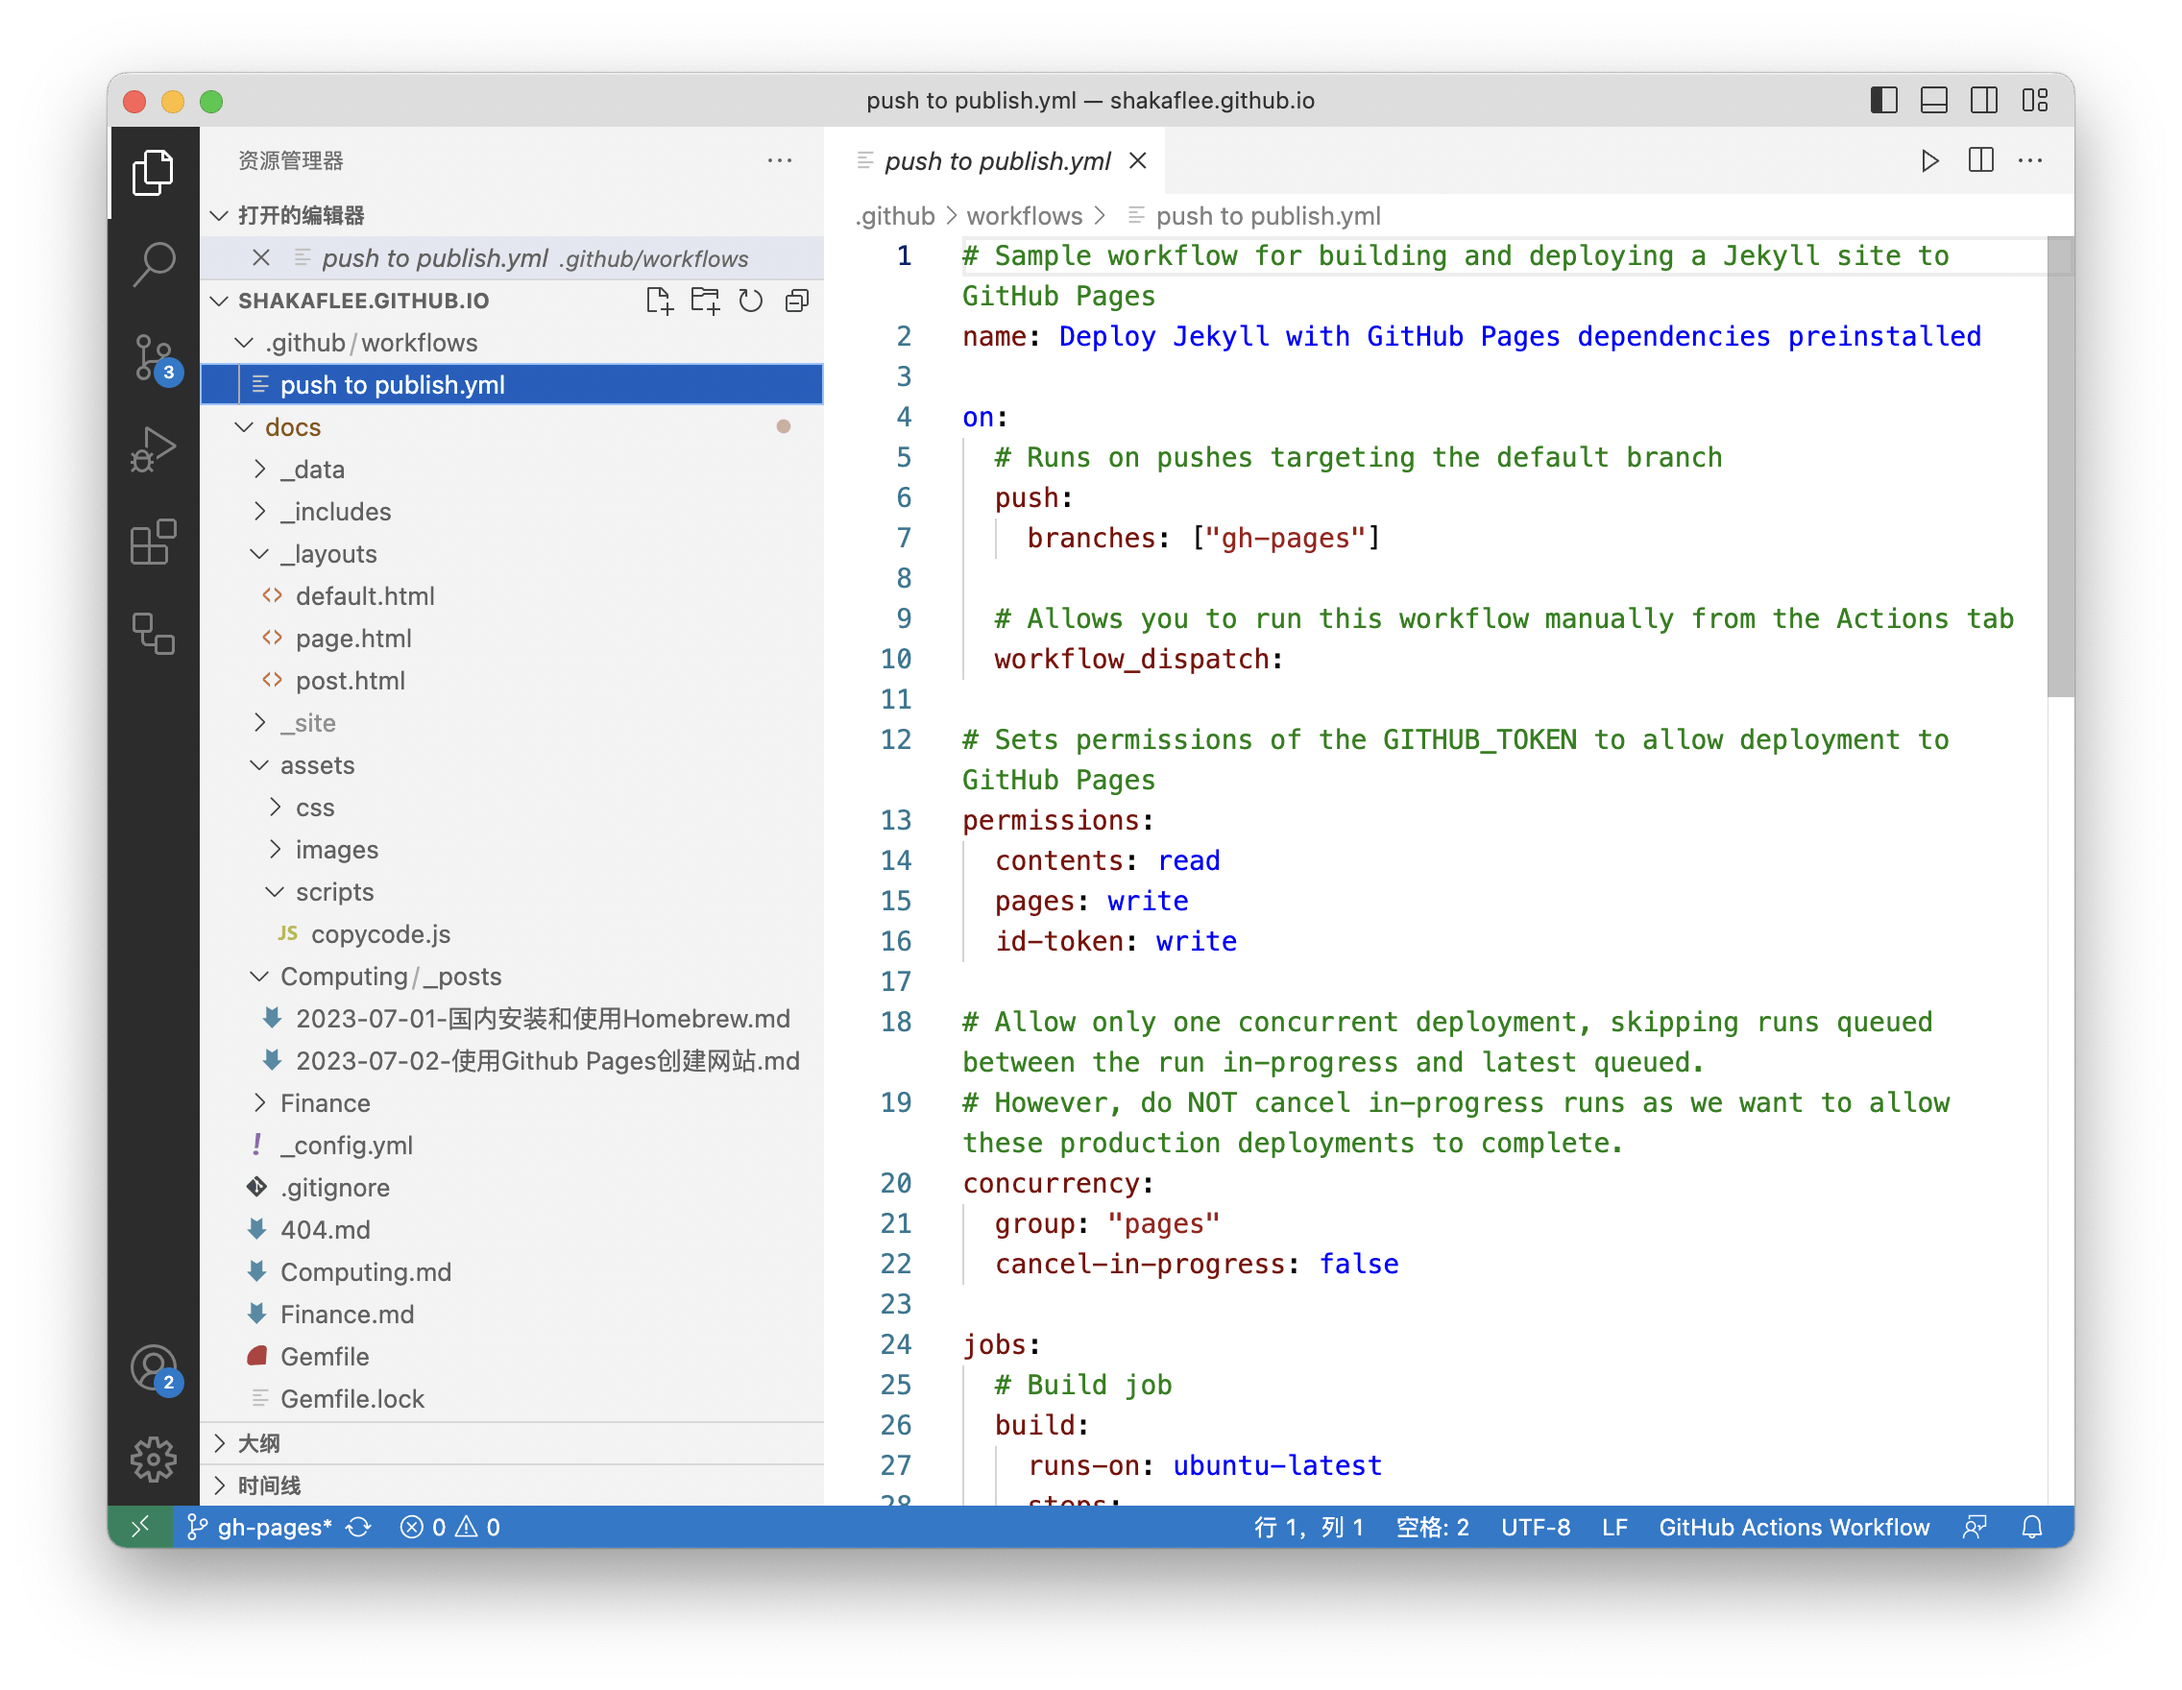
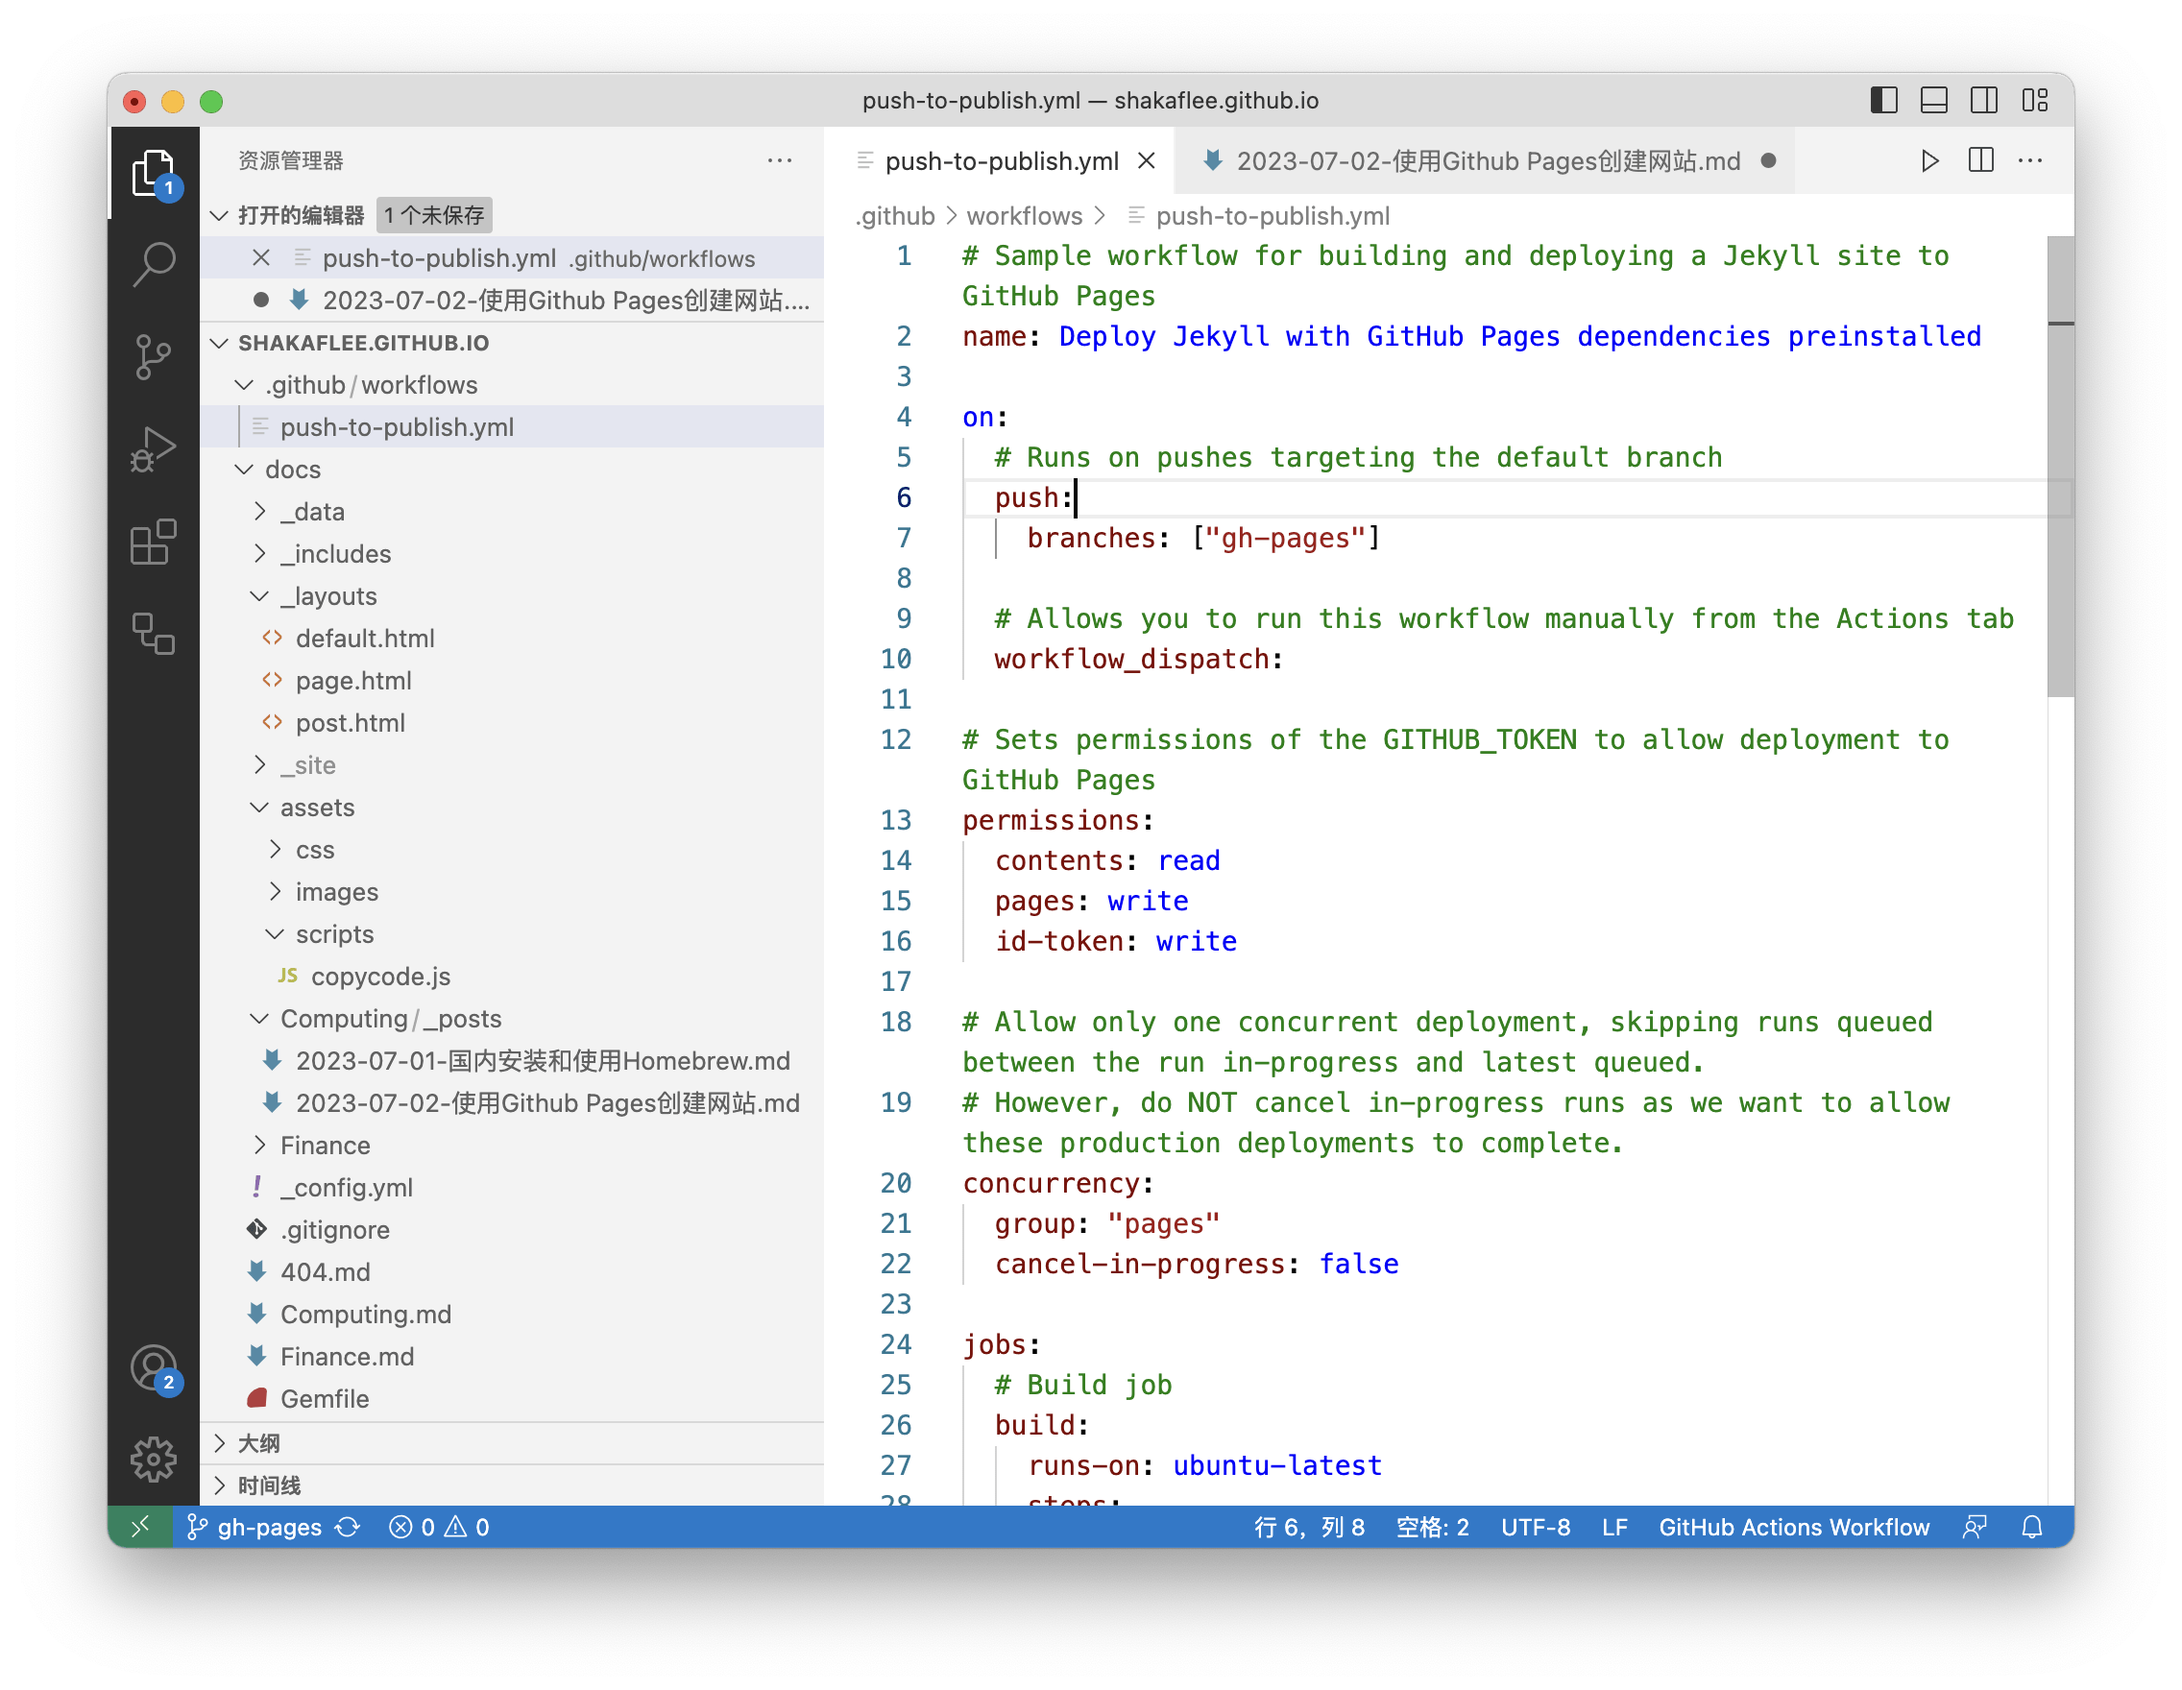
update post：使用github pages创建网站
更新最后的在线发布一节的内容为：使用github actions

diff --git a/docs/Computing/_posts/2023-07-02-使用Github Pages创建网站.md b/docs/Computing/_posts/2023-07-02-使用Github Pages创建网站.md
@@ -644,7 +644,75 @@ Jekyll会以post里边的front matter为准，比如说我有篇文章在/Comput
 
 我们预览网站没有问题后，就可以发布内容到Github Pages去了。
 
-打开Github Desktop，我们在Summary处填写此次的信息，比如我这里就写：第一次提交docs/下全部文件，然后点击下方蓝色的commit to main.
+13.1 创建Github Actions
+
+我们通过Github Actions可以实现每当有内容推送到这个仓库的时候，网站的内容自动更新为最新内容，要做到这一步，我们可以创建一个文件，来描述工作流(workflow)。
+
+在本地的username.github.io，我这里就是shakaflee.github.io这个文件夹下创建一个文件夹，名字是".github",再在其下创建一个子文件夹，名字是"workflows",在该文件夹创建一个名为"push-to-publish.yml"的文件，文件内容为：
+
+{% include copycode.html %}
+```yml
+# Sample workflow for building and deploying a Jekyll site to GitHub Pages
+name: Deploy Jekyll with GitHub Pages dependencies preinstalled
+
+on:
+  # Runs on pushes targeting the default branch
+  push:
+    branches: ["gh-pages"]
+
+  # Allows you to run this workflow manually from the Actions tab
+  workflow_dispatch:
+
+# Sets permissions of the GITHUB_TOKEN to allow deployment to GitHub Pages
+permissions:
+  contents: read
+  pages: write
+  id-token: write
+
+# Allow only one concurrent deployment, skipping runs queued between the run in-progress and latest queued.
+# However, do NOT cancel in-progress runs as we want to allow these production deployments to complete.
+concurrency:
+  group: "pages"
+  cancel-in-progress: false
+
+jobs:
+  # Build job
+  build:
+    runs-on: ubuntu-latest
+    steps:
+      - name: Checkout
+        uses: actions/checkout@v3
+      - name: Setup Pages
+        uses: actions/configure-pages@v3
+      - name: Build with Jekyll
+        uses: actions/jekyll-build-pages@v1
+        with:
+          source: ./docs
+          destination: ./_site
+      - name: Upload artifact
+        uses: actions/upload-pages-artifact@v1
+
+  # Deployment job
+  deploy:
+    environment:
+      name: github-pages
+      url: ${{ steps.deployment.outputs.page_url }}
+    runs-on: ubuntu-latest
+    needs: build
+    steps:
+      - name: Deploy to GitHub Pages
+        id: deployment
+        uses: actions/deploy-pages@v2
+
+```
+
+截图示例：
+
+![create push-to-publish](/assets/images/github-pages/042.png)
+
+上边这个文件的内容可以实现的效果就是：每当我们把内容更新到github网页上的这个仓库的时候，就会触发自动更新网站内容这样一个行为，所以我们以后就可以只专注于创作，不用关心别的发布之类的事情了。
+
+打开Github Desktop，我们在Summary处填写此次的信息，比如我这里就写：第一次提交docs/下全部文件[更正下：应该是提交shakaflee的全部文件，因为不仅有docs这个文件夹，还有.github这个文件夹]，然后点击下方蓝色的commit to main.
 
 ![commit to main](/assets/images/github-pages/034.png)
 
@@ -666,15 +734,9 @@ Jekyll会以post里边的front matter为准，比如说我有篇文章在/Comput
 
 ![settings pages](/assets/images/github-pages/038.png)
 
-在Build and deployment下可以看到问我们内容来源，默认的是Deploy from a branch,我们就是这样的，所以不用改。
-
-在branch下，我们因为就一个gh-pages分支，所以也是默认，文件夹选择我们/docs，这是我们自己创建的，然后点击save就可以了。
-
-我们选择使用Github Actions.
+在Build and deployment下可以看到问我们内容来源，默认的是Deploy from a branch,我们选择使用Github Actions.
 
 ![source is github actions](/assets/images/github-pages/043.png)
-
-![branch deploy](/assets/images/github-pages/039.png)
 
 刷新这个页面，可以看到已经可以访问了，点击visit site就可以看看在线效果了，有时候需要几分钟才能刷新出来内容，所以如果看不到就稍微等一下：
 
